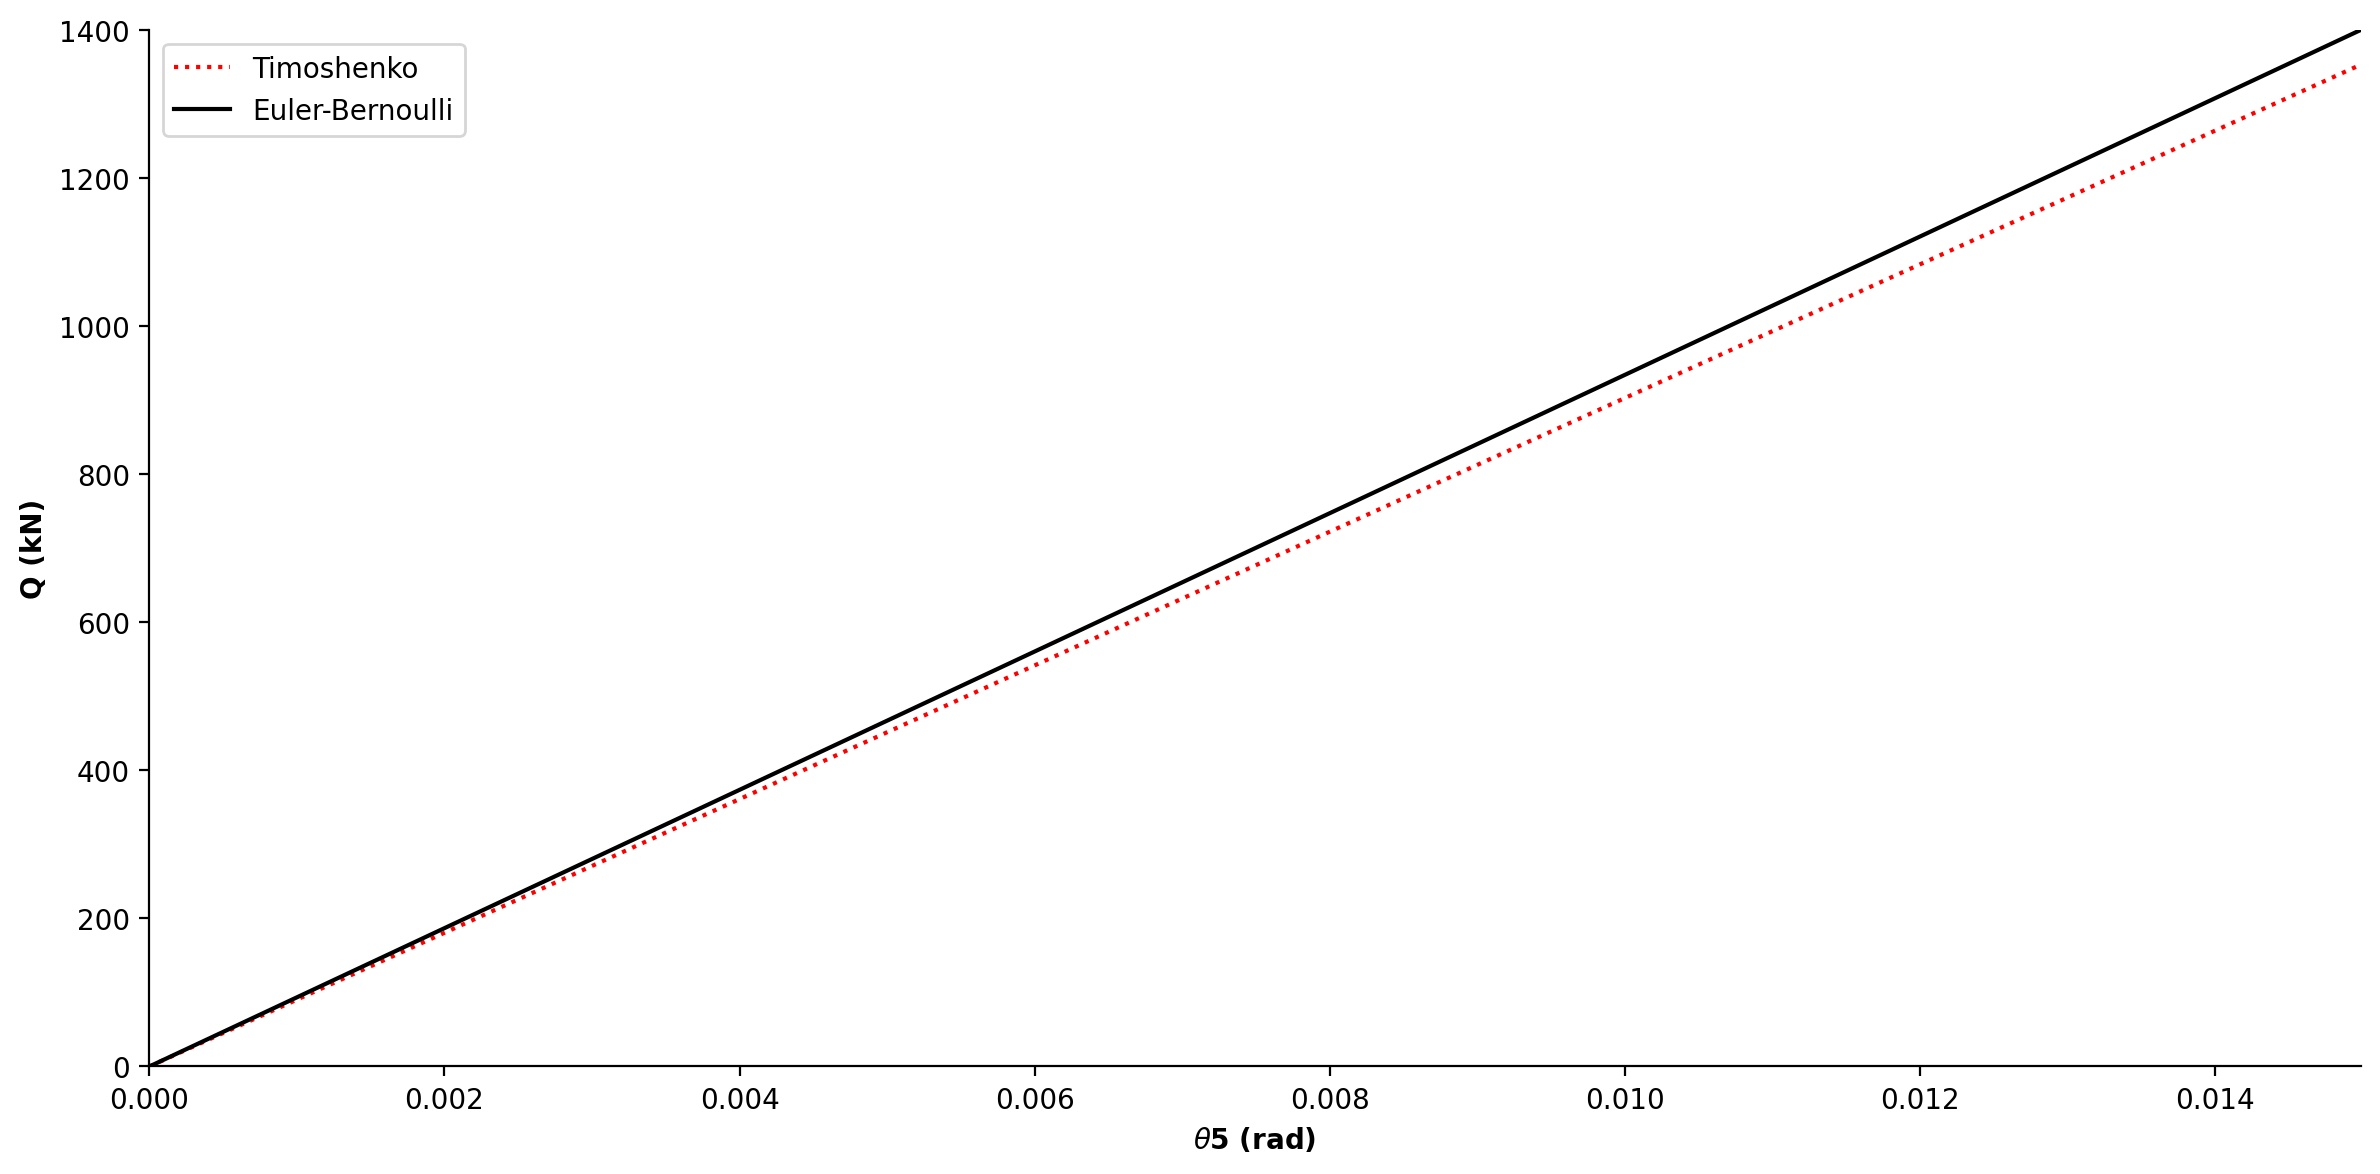
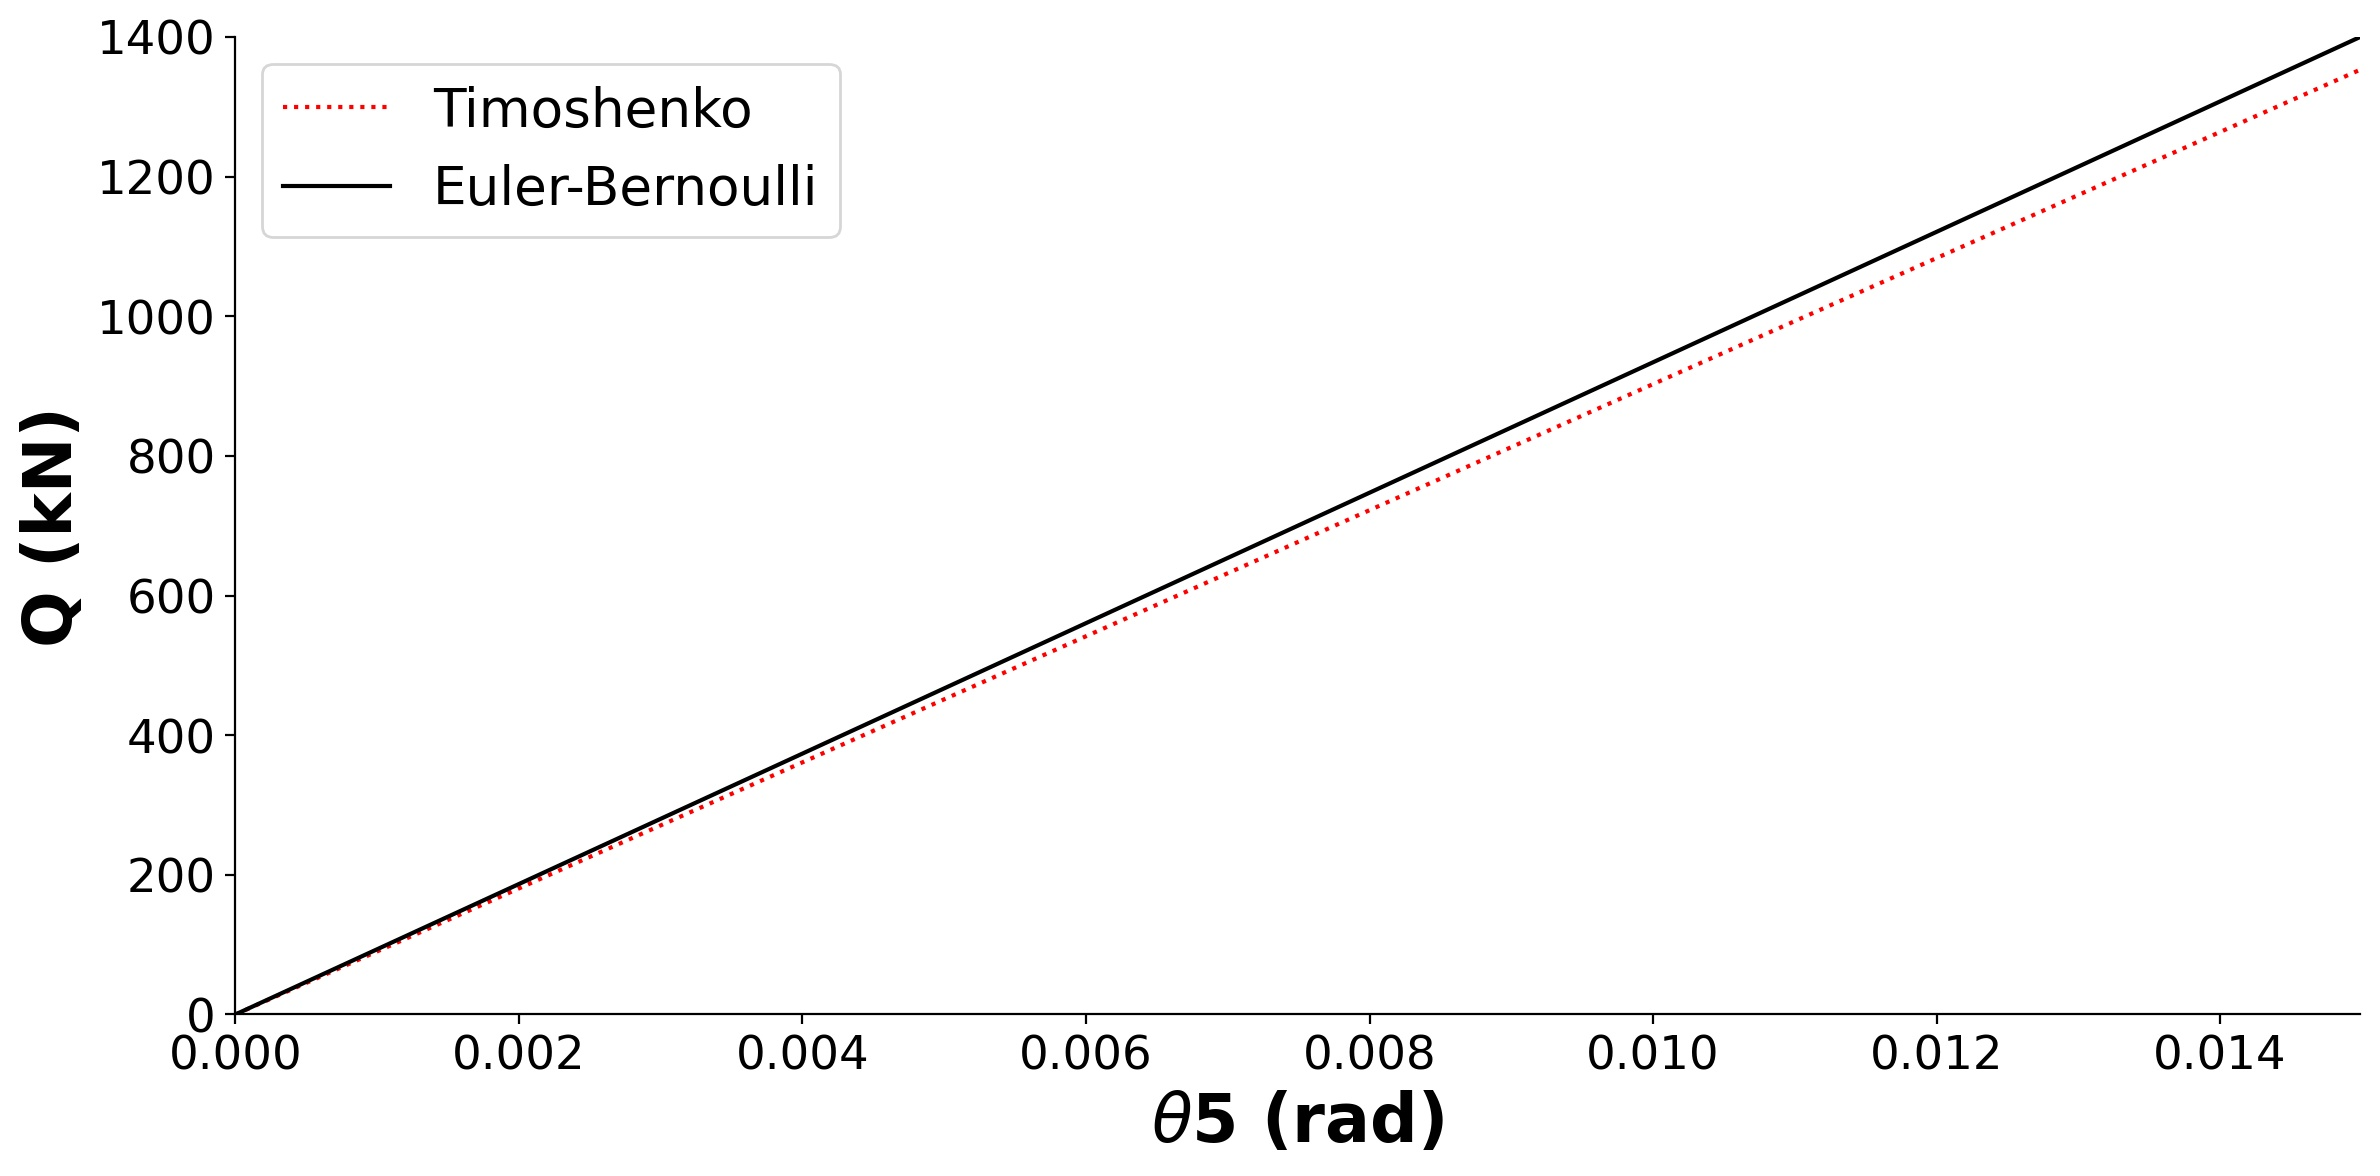
improvements on charts

diff --git a/frame/main_two_node.py b/frame/main_two_node.py
@@ -35,7 +35,7 @@ A = {key: 0.2*0.6 for (key, value) in elems.items()}
 
 # Exemplo 1
 
-beam_type = input("Você deseja a análise elástica de 'timo' ou 'euler'?")
+beam_type = input("Você deseja a análise elástica de 'timo' ou 'euler'?\n:")
 
 nodes, elems, gl_fixed, px_pred, qx_pred, py_pred, qy_pred, m_pred, I, E, A, v, beam_type = fr_tw.read_frame(b_type=beam_type)
 
@@ -113,12 +113,14 @@ def plot_results(node, comp, absolute=True):
 
     fig, ax = plt.subplots()
     ax.plot(u_vals, P_vals, linestyle="dotted", label="Timoshenko", color="red")
+    base = 24
 
     ax.ticklabel_format(useOffset=False, style='plain')
-    ax.set_ylabel("Q (kN)", fontdict=dict(weight='bold'))
-    ax.set_xlabel(string, fontdict=dict(weight='bold'))
+    ax.set_ylabel("Q (kN)", fontdict=dict(weight='bold', size=base))
+    ax.set_xlabel(string, fontdict=dict(weight='bold', size=base))
     ax.spines['right'].set_visible(False)
     ax.spines['top'].set_visible(False)
+    ax.tick_params(axis='both', which='major', labelsize=base*0.7)
     ax.yaxis.set_ticks_position('left')
     ax.xaxis.set_ticks_position('bottom')
 
@@ -142,12 +144,12 @@ def plot_results(node, comp, absolute=True):
         P_vals.append(int(i)/1000)
 
     ax.plot(u_vals, P_vals, label="Euler-Bernoulli",  color="black")
-    ax.legend()
+    ax.legend(fontsize=base*0.8)
     ax.set_ylim(0, max(P_vals))
     ax.set_xlim(min(u_vals), max(u_vals))
     fig.tight_layout()
     fig.savefig(f"./frame/figs/{string_}.jpg", dpi=200, bbox_inches="tight")
-    plt.show()
+    # plt.show()
     plt.close()
     
 
